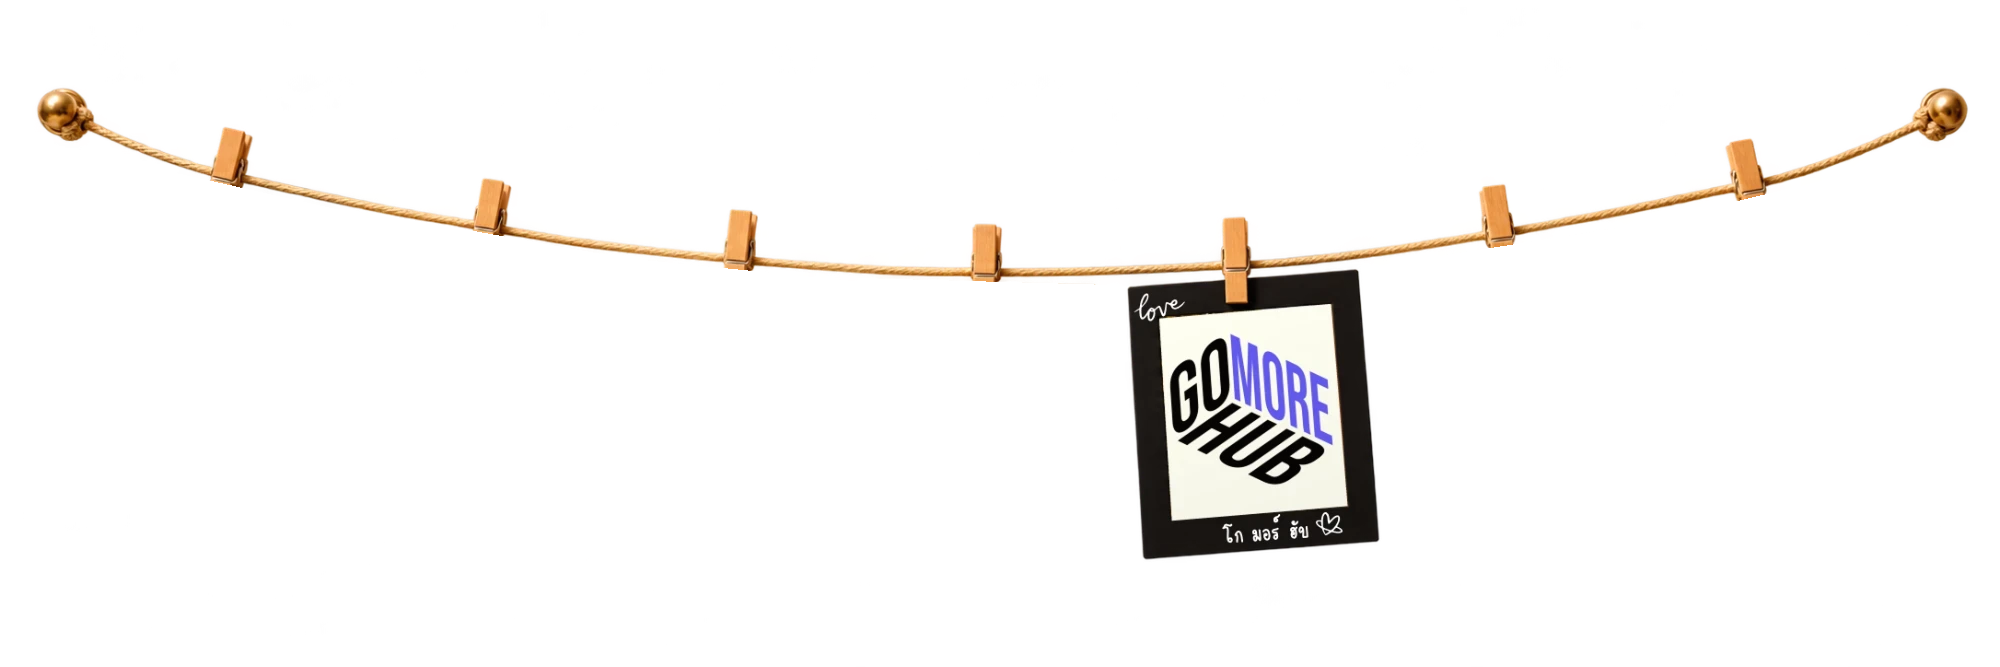
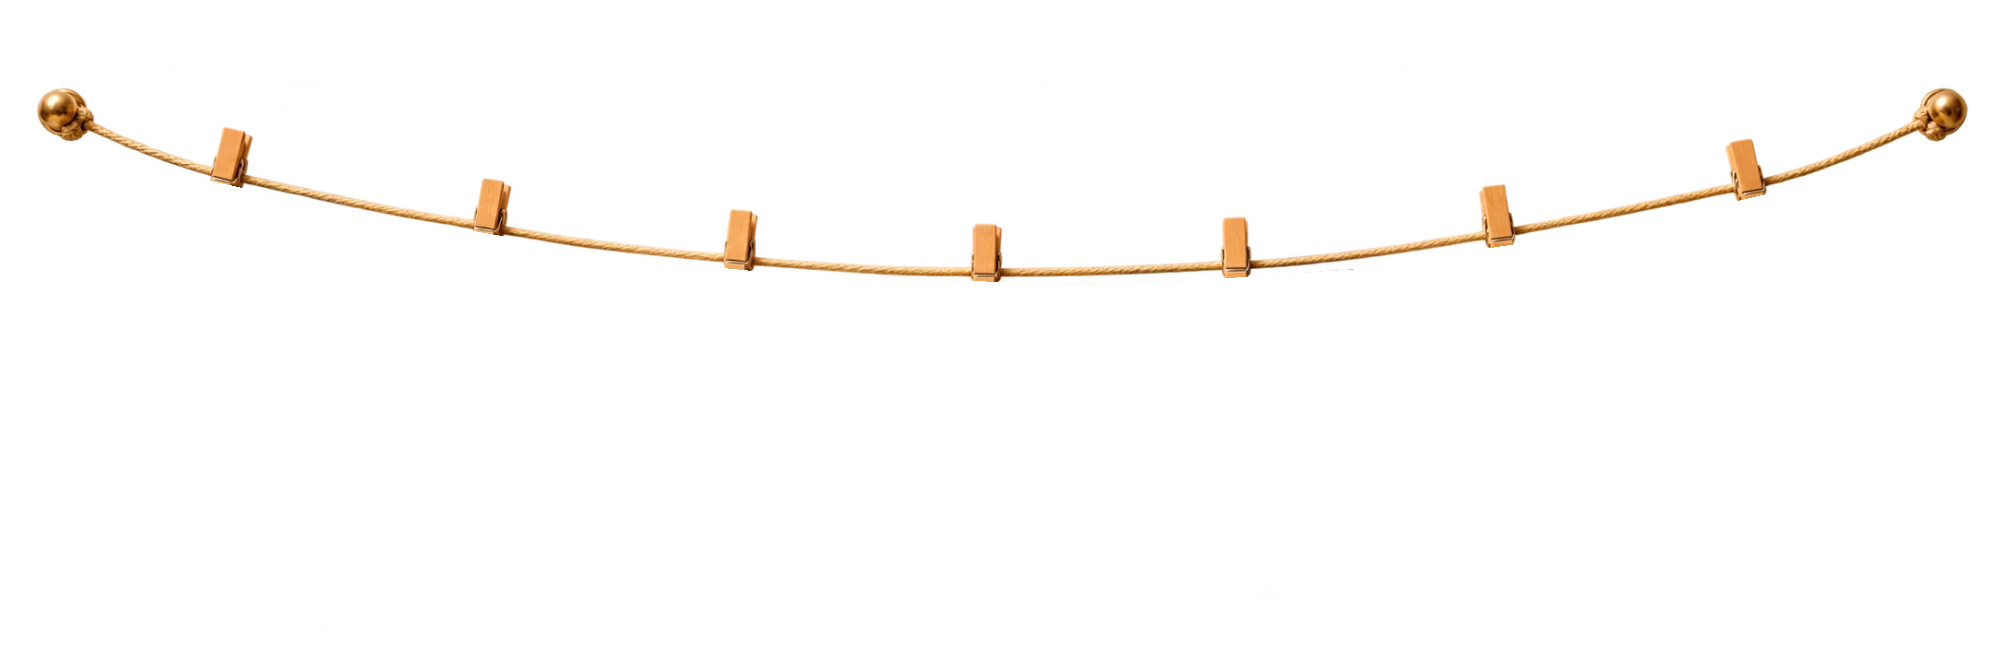
Let the Go More Hub card swing, and use plain hyphens in site text
- Cut the Go More Hub card out of the window string so it swings on its
  peg on hover like the six place photos. It stays a plain element with
  no link; the other cut-outs are byte-identical.
- Replace every em dash in the page and its labels with a hyphen,
  including the title (Go More Hub - A little world of possibilities).

Claude-Session: https://claude.ai/code/session_01UwXfBYaY2EuZxk2qMiXn5e

Changed region(s): [[0.558, 0.3898, 0.713, 0.8396]]

diff --git a/index.html b/index.html
@@ -4,11 +4,11 @@
   <meta charset="UTF-8">
   <meta name="viewport" content="width=device-width, initial-scale=1">
   <meta name="theme-color" content="#edddc7">
-  <title>Go More Hub — A little world of possibilities</title>
+  <title>Go More Hub - A little world of possibilities</title>
   <meta name="description" content="สำรวจโลกของ Go More Hub บริษัท โก มอร์ ฮับ จำกัด พบกับ Villadd แพลตฟอร์มจองพูลวิลล่า และ ThaiMove เปลี่ยนการออกกำลังกายเป็นคะแนนและรางวัล">
   <link rel="canonical" href="https://nidss.github.io/gmh/">
   <meta property="og:type" content="website">
-  <meta property="og:title" content="Go More Hub — A little world of possibilities">
+  <meta property="og:title" content="Go More Hub - A little world of possibilities">
   <meta property="og:description" content="Good escapes. Meaningful movement. Explore the Go More Hub world.">
   <meta property="og:url" content="https://nidss.github.io/gmh/">
   <meta property="og:image" content="https://nidss.github.io/gmh/assets/desk-panorama.webp">
@@ -17,9 +17,9 @@
   <link rel="preconnect" href="https://fonts.googleapis.com">
   <link rel="preconnect" href="https://fonts.gstatic.com" crossorigin>
   <link href="https://fonts.googleapis.com/css2?family=DM+Sans:wght@400;500;600;700&family=Manrope:wght@500;600;700;800&family=Noto+Sans+Thai:wght@400;500;600;700&family=Patrick+Hand&display=swap" rel="stylesheet">
-  <link rel="stylesheet" href="styles.css?v=25">
+  <link rel="stylesheet" href="styles.css?v=26">
   <script>document.documentElement.classList.add('js')</script>
-  <script src="script.js?v=23" defer></script>
+  <script src="script.js?v=24" defer></script>
 </head>
 <body>
   <a class="skip-link" href="#explore" data-th="ข้ามไปยังเมนู" data-en="Skip to menu">ข้ามไปยังเมนู</a>
@@ -44,7 +44,7 @@
     </div>
   </header>
   <main class="world-shell" id="main">
-    <h1 class="sr-only">Go More Hub — Go more. Live more.</h1>
+    <h1 class="sr-only">Go More Hub - Go more. Live more.</h1>
     <p class="mobile-hint" data-th="เลื่อนภาพเพื่อสำรวจ หรือกดปุ่มเมนู" data-en="Swipe across the scene, or tap Menu to find your way.">เลื่อนภาพเพื่อสำรวจ หรือกดปุ่มเมนู</p>
     <div class="scene-viewport" id="scene-viewport" tabindex="0" aria-label="ฉาก Go More Hub สามารถเลื่อนภาพเพื่อสำรวจได้">
       <div class="world" id="world">
@@ -59,6 +59,7 @@
             <a class="window-photo photo-huay-yai" href="https://villadd.com/th/villas/huay-yai" target="_blank" rel="noopener noreferrer"><img src="assets/window-photo-huay-yai.webp" width="282" height="315" alt="" decoding="async"><span class="sr-only" data-th="พูลวิลล่าห้วยใหญ่ บน Villadd (เปิดแท็บใหม่)" data-en="Huay Yai pool villas on Villadd (opens in a new tab)">พูลวิลล่าห้วยใหญ่ บน Villadd (เปิดแท็บใหม่)</span></a>
             <a class="window-photo photo-bang-saray" href="https://villadd.com/th/villas/bang-saray" target="_blank" rel="noopener noreferrer"><img src="assets/window-photo-bang-saray.webp" width="275" height="298" alt="" decoding="async"><span class="sr-only" data-th="พูลวิลล่าบางเสร่ บน Villadd (เปิดแท็บใหม่)" data-en="Bang Saray pool villas on Villadd (opens in a new tab)">พูลวิลล่าบางเสร่ บน Villadd (เปิดแท็บใหม่)</span></a>
             <a class="window-photo photo-south-pattaya" href="https://villadd.com/th/villas/south-pattaya" target="_blank" rel="noopener noreferrer"><img src="assets/window-photo-south-pattaya.webp" width="255" height="289" alt="" decoding="async"><span class="sr-only" data-th="พูลวิลล่าพัทยาใต้ บน Villadd (เปิดแท็บใหม่)" data-en="South Pattaya pool villas on Villadd (opens in a new tab)">พูลวิลล่าพัทยาใต้ บน Villadd (เปิดแท็บใหม่)</span></a>
+            <span class="window-photo photo-gomorehub"><img src="assets/window-photo-gomorehub.webp" width="265" height="296" alt="" decoding="async"></span>
             <a class="window-photo photo-phra-tamnak" href="https://villadd.com/th/villas/phra-tamnak" target="_blank" rel="noopener noreferrer"><img src="assets/window-photo-phra-tamnak.webp" width="295" height="323" alt="" decoding="async"><span class="sr-only" data-th="พูลวิลล่าพระตำหนัก บน Villadd (เปิดแท็บใหม่)" data-en="Phra Tamnak pool villas on Villadd (opens in a new tab)">พูลวิลล่าพระตำหนัก บน Villadd (เปิดแท็บใหม่)</span></a>
             <a class="window-photo photo-jomtien" href="https://villadd.com/th/villas/jomtien" target="_blank" rel="noopener noreferrer"><img src="assets/window-photo-jomtien.webp" width="287" height="328" alt="" decoding="async"><span class="sr-only" data-th="พูลวิลล่าจอมเทียน บน Villadd (เปิดแท็บใหม่)" data-en="Jomtien pool villas on Villadd (opens in a new tab)">พูลวิลล่าจอมเทียน บน Villadd (เปิดแท็บใหม่)</span></a>
           </div>
@@ -68,10 +69,10 @@
           <button class="scene-item supplied-phone" data-open="contact" aria-haspopup="dialog" aria-label="Contact Go More Hub">
             <img class="object-image" src="assets/desk-phone.webp" width="2000" height="2000" alt="">
           </button>
-          <button class="scene-item supplied-frame" data-open="villadd" aria-haspopup="dialog" aria-label="Villadd — Pool villa booking">
+          <button class="scene-item supplied-frame" data-open="villadd" aria-haspopup="dialog" aria-label="Villadd - Pool villa booking">
             <img class="object-image" src="assets/desk-villadd.webp" width="2000" height="1632" alt="">
           </button>
-          <button class="scene-item supplied-figure" data-open="thaimove" aria-haspopup="dialog" aria-label="ThaiMove — Coming Soon">
+          <button class="scene-item supplied-figure" data-open="thaimove" aria-haspopup="dialog" aria-label="ThaiMove - Coming Soon">
             <img class="object-image" src="assets/desk-thaimove.webp" width="2000" height="2075" alt="">
           </button>
         </div>
@@ -126,7 +127,7 @@
         <span class="dialog-status">COMING SOON</span><p class="dialog-lead" data-th="ทุกการเคลื่อนไหวมีความหมายมากขึ้น" data-en="Make every move mean a little more.">ทุกการเคลื่อนไหวมีความหมายมากขึ้น</p>
         <p data-th="เชื่อมต่อสถิติการออกกำลังกายจากแอป Third Party แล้วเปลี่ยนกิจกรรมของคุณให้เป็นคะแนนสำหรับแลกของรางวัล เพิ่มแรงจูงใจให้การขยับตัวในทุกวัน" data-en="Connect activity statistics from third-party fitness apps and turn your movement into points to redeem for rewards. More motivation to keep moving, every day.">เชื่อมต่อสถิติการออกกำลังกายจากแอป Third Party แล้วเปลี่ยนกิจกรรมของคุณให้เป็นคะแนนสำหรับแลกของรางวัล เพิ่มแรงจูงใจให้การขยับตัวในทุกวัน</p>
         <div class="move-steps"><span data-th="เชื่อมข้อมูล" data-en="CONNECT">เชื่อมข้อมูล</span><b aria-hidden="true">→</b><span data-th="สะสมคะแนน" data-en="EARN POINTS">สะสมคะแนน</span><b aria-hidden="true">→</b><span data-th="แลกรางวัล" data-en="GET REWARDS">แลกรางวัล</span></div>
-        <p class="fine-print" data-th="อยู่ระหว่างการพัฒนา — ยังไม่เปิดให้บริการเต็มรูปแบบ" data-en="In development — the full service is not yet available.">อยู่ระหว่างการพัฒนา — ยังไม่เปิดให้บริการเต็มรูปแบบ</p>
+        <p class="fine-print" data-th="อยู่ระหว่างการพัฒนา - ยังไม่เปิดให้บริการเต็มรูปแบบ" data-en="In development - the full service is not yet available.">อยู่ระหว่างการพัฒนา - ยังไม่เปิดให้บริการเต็มรูปแบบ</p>
       </div>
       <figure class="dialog-video">
         <video poster="assets/thaimove-showreel-poster.webp" width="720" height="1280" muted loop playsinline controls preload="metadata"><source src="assets/thaimove-showreel.webm" type="video/webm"><source src="assets/thaimove-showreel.mp4" type="video/mp4"></video>
@@ -155,6 +156,6 @@
     <p data-th="บางครั้ง สิ่งดี ๆ เริ่มจากการก้าวออกไปข้างนอก เปลี่ยนบรรยากาศ หรือขยับตัวอีกนิด" data-en="Sometimes the good stuff starts with getting outside, changing your view, or moving a little more.">บางครั้ง สิ่งดี ๆ เริ่มจากการก้าวออกไปข้างนอก เปลี่ยนบรรยากาศ หรือขยับตัวอีกนิด</p>
     <button class="dialog-cta" id="another-idea"><span data-th="อีกหนึ่งไอเดียดี ๆ" data-en="One more good idea">อีกหนึ่งไอเดียดี ๆ</span><span aria-hidden="true">↻</span></button>
   </template>
-  <noscript><div class="noscript-note"><p>Go More Hub — บริษัท โก มอร์ ฮับ จำกัด<br>666/66 หมู่ที่ 5 ตำบลนาเกลือ อำเภอบางละมุง จังหวัดชลบุรี 20150</p><a href="mailto:support@villadd.com">support@villadd.com</a> · <a href="https://www.facebook.com/gomorehub">Facebook</a> · <a href="https://villadd.com/th">Villadd</a> · ThaiMove (Coming Soon)<p>เปิด JavaScript เพื่อสำรวจฉากและเมนูทั้งหมด / Enable JavaScript to explore this scene.</p></div></noscript>
+  <noscript><div class="noscript-note"><p>Go More Hub - บริษัท โก มอร์ ฮับ จำกัด<br>666/66 หมู่ที่ 5 ตำบลนาเกลือ อำเภอบางละมุง จังหวัดชลบุรี 20150</p><a href="mailto:support@villadd.com">support@villadd.com</a> · <a href="https://www.facebook.com/gomorehub">Facebook</a> · <a href="https://villadd.com/th">Villadd</a> · ThaiMove (Coming Soon)<p>เปิด JavaScript เพื่อสำรวจฉากและเมนูทั้งหมด / Enable JavaScript to explore this scene.</p></div></noscript>
 </body>
 </html>

diff --git a/styles.css b/styles.css
@@ -98,7 +98,7 @@
 .dust-canvas{display:none;position:fixed;inset:0;width:100%;height:100%;z-index:2;pointer-events:none;opacity:0;transition:opacity 1.4s ease}
 .camera-ready .dust-canvas{display:block}
 .dust-canvas.running{opacity:1}
-/* Window photos: a supplied photo string across the window sash. Each place photo links to its Villadd area page and swings on its peg when pointed at. Placed on the native panorama from the supplied mockup; the photos sit on the 2000 × 667 strip. */
+/* Window photos: a supplied photo string across the window sash. Each place photo links to its Villadd area page; every photo, the unlinked Go More Hub card included, swings on its peg when pointed at. Placed on the native panorama from the supplied mockup; the photos sit on the 2000 × 667 strip. */
 .window-photos{position:absolute;left:30.5500%;top:-5.3373%;width:43.5506%;aspect-ratio:2000/667;pointer-events:none}
 .window-string,.window-photo img{position:absolute;inset:0;width:100%;height:100%;max-width:none;pointer-events:none}
 .window-photo{position:absolute;pointer-events:auto;transition:filter .3s ease}
@@ -110,6 +110,7 @@
 .photo-huay-yai{left:16.8000%;top:31.6342%;width:14.1000%;height:47.2264%;transform-origin:56.51% 7.61%}
 .photo-bang-saray{left:29.5000%;top:38.3808%;width:13.7500%;height:44.6777%;transform-origin:53.4% 4.58%}
 .photo-south-pattaya{left:42.7500%;top:41.3793%;width:12.7500%;height:43.3283%;transform-origin:50.87% 1.94%}
+.photo-gomorehub{left:55.8500%;top:40.0300%;width:13.2500%;height:44.3778%;transform-origin:47.38% 3.32%}
 .photo-phra-tamnak{left:68.8500%;top:33.7331%;width:14.7500%;height:48.4258%;transform-origin:43.72% 6.35%}
 .photo-jomtien{left:82.6500%;top:25.9370%;width:14.3500%;height:49.1754%;transform-origin:38.03% 6.69%}
 /* Product dialogs with a showreel (Villadd, ThaiMove): the copy on the left, the portrait video on the right; stacked on narrow screens. */

diff --git a/script.js b/script.js
@@ -38,9 +38,9 @@
     viewport.setAttribute('aria-label', next === 'th' ? 'ฉาก Go More Hub สามารถเลื่อนภาพเพื่อสำรวจได้' : 'Go More Hub scene. Scroll to explore.');
     document.querySelector('#explore').setAttribute('aria-label', next === 'th' ? 'เมนู Go More Hub' : 'Go More Hub menu');
     document.querySelector('.supplied-phone').setAttribute('aria-label', next === 'th' ? 'ติดต่อ Go More Hub' : 'Contact Go More Hub');
-    document.querySelector('.supplied-frame').setAttribute('aria-label', next === 'th' ? 'Villadd — จองที่พักพูลวิลล่า' : 'Villadd — Pool villa booking');
+    document.querySelector('.supplied-frame').setAttribute('aria-label', next === 'th' ? 'Villadd - จองที่พักพูลวิลล่า' : 'Villadd - Pool villa booking');
     document.querySelector('.supplied-note').setAttribute('aria-label', next === 'th' ? 'เกี่ยวกับ Go More Hub' : 'About Go More Hub');
-    document.querySelector('.supplied-figure').setAttribute('aria-label', next === 'th' ? 'ThaiMove — เร็ว ๆ นี้' : 'ThaiMove — Coming Soon');
+    document.querySelector('.supplied-figure').setAttribute('aria-label', next === 'th' ? 'ThaiMove - เร็ว ๆ นี้' : 'ThaiMove - Coming Soon');
     motionLabels();
     soundLabels();
     updateCues();

diff --git a/CLAUDE.md b/CLAUDE.md
@@ -23,7 +23,7 @@ When `styles.css` or `script.js` changes, bump the `?v=N` query on both referenc
 
 - **One coordinate system:** everything is laid out on the native 2926 × 1081 panorama (`assets/desk-panorama.webp`). `.world` keeps that aspect ratio.
 - **Clickable objects:** the four objects (`.supplied-phone`, `.supplied-frame`, `.supplied-note`, `.supplied-figure`) are positioned with percentages at the end of `styles.css`, measured against the placement reference. They are pre-cut images with their sticky-note labels baked in.
-- **Window photos:** `.window-photos` places a supplied photo string across the window sash, partly above the panorama (top `-5.3373%`). `window-string.webp` holds the rope, pegs and the unlinked Go More Hub card. The six place photos are separate cut-outs positioned in strip percentages, each an `<a>` to its `villadd.com/th/villas/<area>` page that swings about its peg (no glow) on hover or focus.
+- **Window photos:** `.window-photos` places a supplied photo string across the window sash, partly above the panorama (top `-5.3373%`). `window-string.webp` holds the rope and pegs. All seven photos are separate cut-outs positioned in strip percentages and swing about their pegs (no glow) on hover or focus. The six place photos are each an `<a>` to their `villadd.com/th/villas/<area>` page. The Go More Hub card (`.photo-gomorehub`) is a plain `<span>` with no link.
 - **Extension strips:** `desk-extension-top.webp` and `desk-extension-bottom.webp` continue the room above and below the panorama. They are cut from a supplied outpaint, `gmhbg3.png` (2926 × 1801), which is no longer in the working tree (recover it with `git show 6299b5b:assets/gmhbg3.png > gmhbg3.png`). In that image the original sits unchanged at y = 520, and each overlaps the panorama by 64 px with a feathered edge (hence the `5.9204%` offsets in CSS). If the panorama changes, re-cut the strips the same way.
 
 ### Camera (`fitScene` in `script.js`)

diff --git a/ASSETS.md b/ASSETS.md
@@ -18,8 +18,9 @@
 
 - Source: user-supplied photo string (2000 × 667, RGBA): seven place photos pinned on a rope with brass end knobs. The Thai captions and doodles are baked in.
 - Placement: registered against the supplied mockup, which shows the string over the window sash of the gmhbg3.png outpaint. On the native panorama it sits at x 894, y −58, 1274 px wide (`.window-photos` in styles.css).
-- Processing (OpenCV + Pillow, WebP quality 90): each photo's outline is found by a morphological opening of the alpha channel and a minimum-area rectangle. Six photos are cut out with their sides and bottom grown by 14–16 px to keep their soft painted shadow, and the top edge left in place so the rope stays in the base. The cut-outs overlap the base by 2 px to avoid seams.
-  - assets/window-string.webp — the rope, end knobs, pegs and the Go More Hub card (no link), 2000 × 667.
+- Processing (OpenCV + Pillow, WebP quality 90): each photo's outline is found by a morphological opening of the alpha channel and a minimum-area rectangle. All seven photos are cut out with their sides and bottom grown by 14–16 px to keep their soft painted shadow, and the top edge left in place so the rope stays in the base. The cut-outs overlap the base by 2 px to avoid seams.
+  - assets/window-string.webp — the rope, end knobs and pegs, 2000 × 667.
+  - assets/window-photo-gomorehub.webp — the Go More Hub card (no link). It was cut out later so it can swing like the others, which leaves the other six cut-outs byte-identical.
   - assets/window-photo-central-pattaya.webp, -huay-yai, -bang-saray, -south-pattaya, -phra-tamnak, -jomtien — one per linked photo, each linking to https://villadd.com/th/villas/<area>.
 - No pixels were repainted or recoloured.
 
